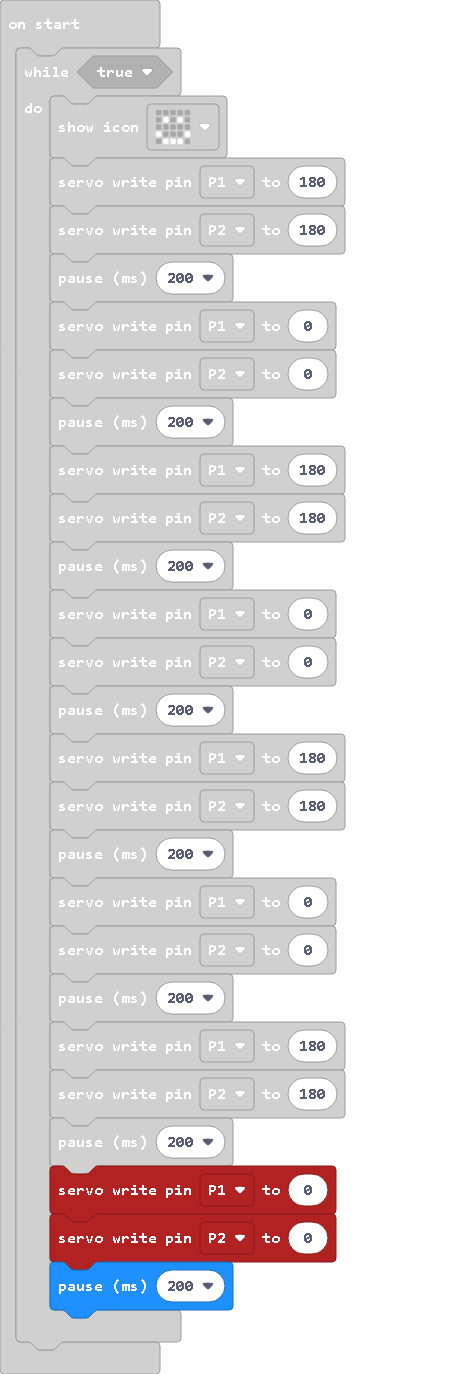
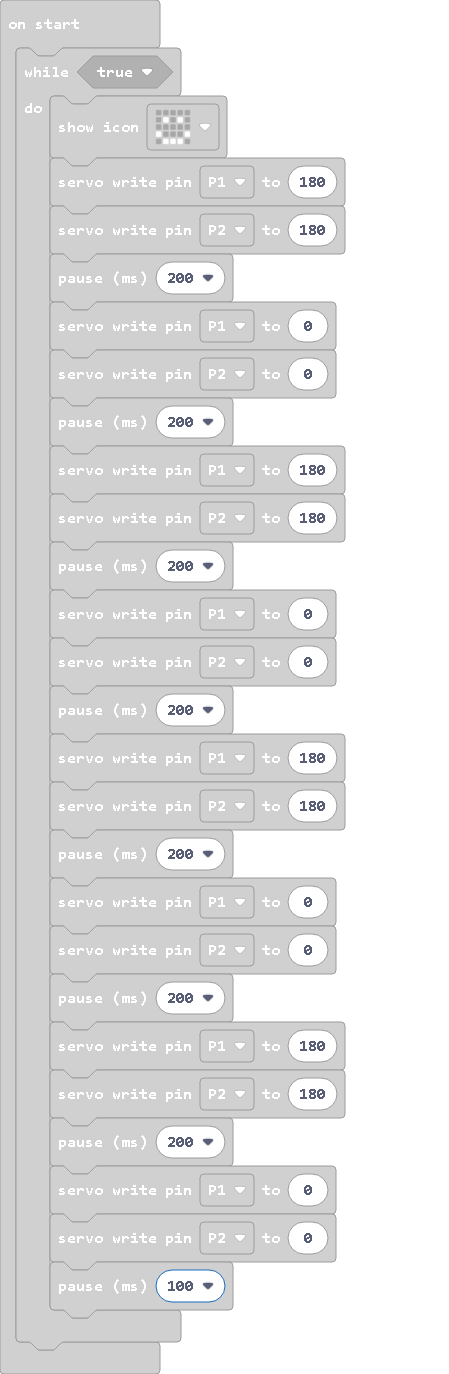
Update main.blocks, main.ts

Changed region(s): [[0.0935, 0.8253, 0.7483, 0.9782]]

diff --git a/main.ts b/main.ts
@@ -23,7 +23,7 @@ while (true) {
     basic.pause(200)
     pins.servoWritePin(AnalogPin.P1, 0)
     pins.servoWritePin(AnalogPin.P2, 0)
-    basic.pause(200)
+    basic.pause(100)
 }
 basic.forever(function () {
 	
